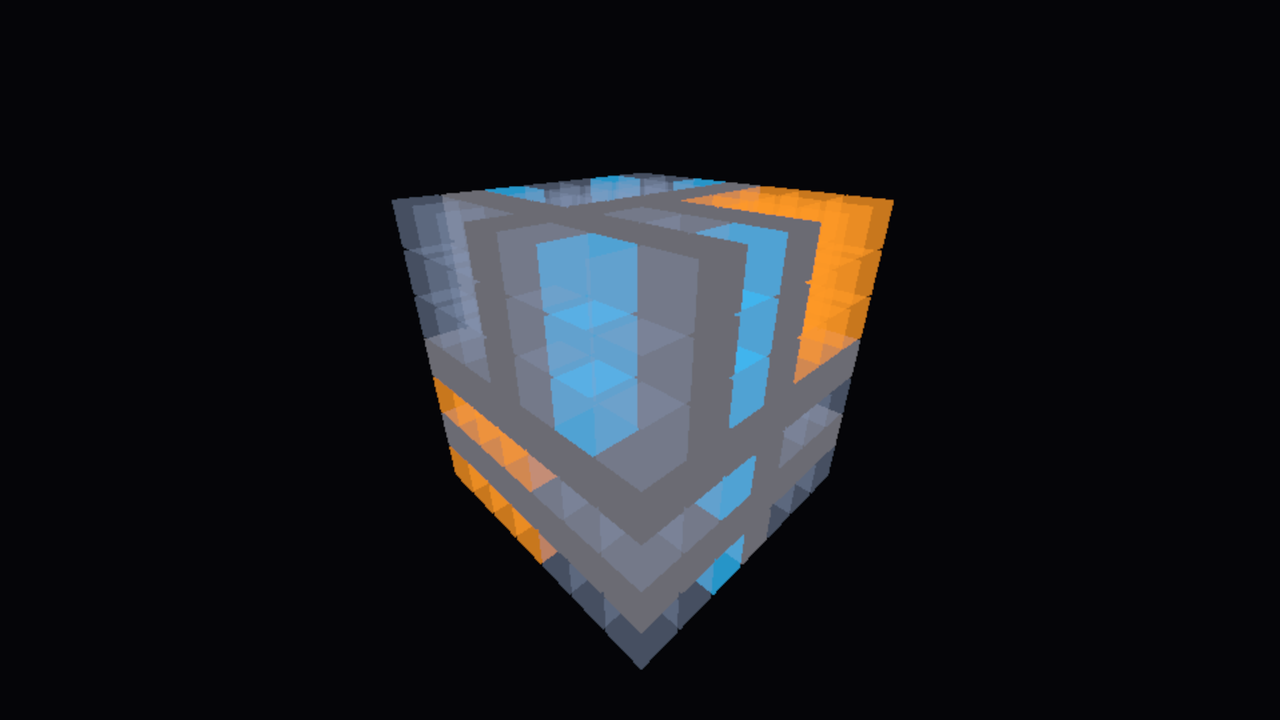
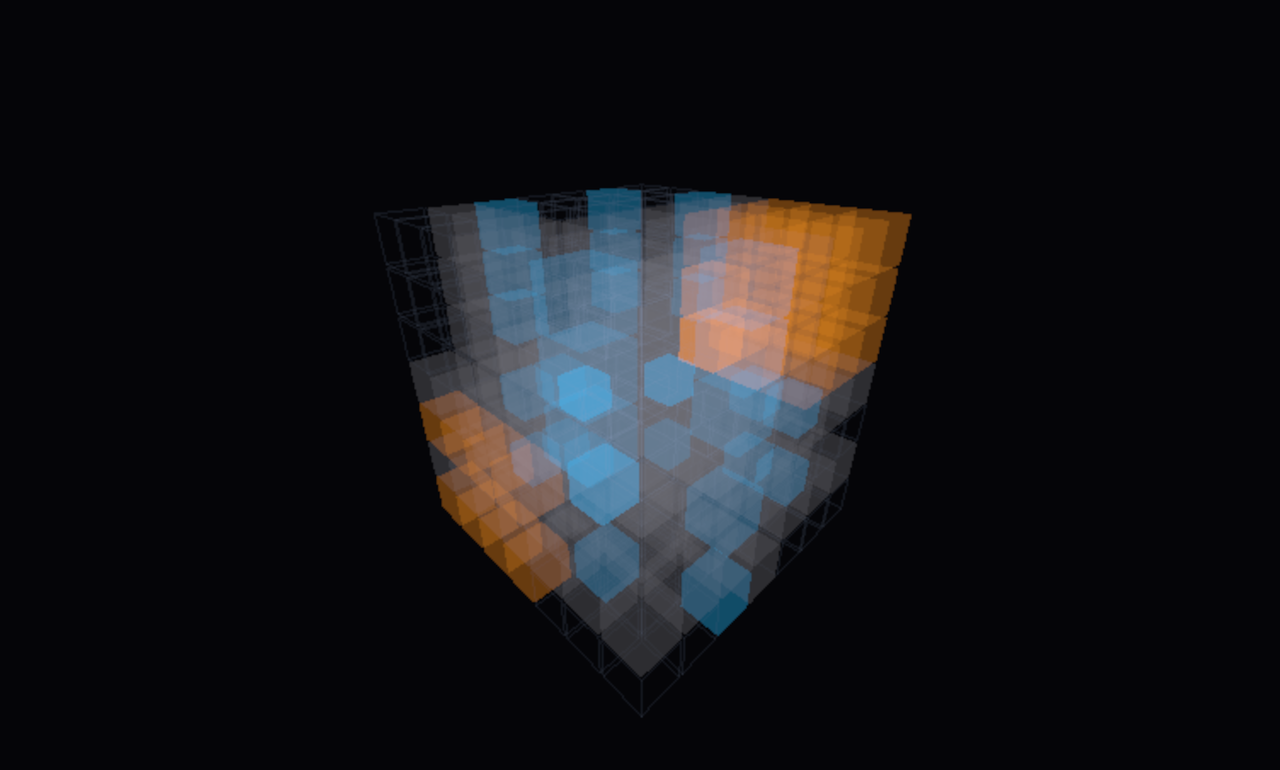
docs(skeleton): per-type viewer style and regenerated after images
The code map describes the fill and stratum_wireframe toggles, the render
priorities and the new default look; the skeleton-after images are
recaptured from the outside view preset with the default style.

Changed region(s): [[0.2812, 0.2444, 0.7188, 0.9167]]

diff --git a/docs/code/skeleton.md b/docs/code/skeleton.md
@@ -16,8 +16,8 @@ status: current
 > how many sectors of each type seed 0 produces and fails if that changes.
 > Another task measures how structured the result is and fails if shafts get
 > too short or solid stops splitting space into blocks. A separate viewer
-> scene draws the sectors around the camera as coloured wireframe cubes and
-> puts every grammar knob in the tweak panel, so the grammar can be judged by
+> scene draws the sectors around the camera as coloured see-through boxes,
+> with the common stratum as faint outlines, and puts every grammar knob in the tweak panel, so the grammar can be judged by
 > eye while flying through it.
 
 ## Files
@@ -77,7 +77,8 @@ The viewer is made for flying through the world, so its defaults are:
 | --- | --- | --- |
 | `follow_camera` | on | The region is centred on the camera's sector and moves with it. |
 | `radius` | 4 | Sectors drawn around the centre: 9³ = 729 (at most 6, 13³ = 2 197). |
-| `fill` | off | Wireframe cubes; on draws translucent filled boxes. |
+| `fill` | on | Shaft, cavity, solid and chasm as translucent filled boxes; off draws them as wireframe cubes. |
+| `stratum_wireframe` | on | Stratum as a faint wireframe cube; off draws it as a faint filled box. |
 | `show_stratum` | on | Stratum is drawn, much fainter than the other types. |
 
 Every sector of the region is drawn as a cube 44 m on a side centred in its
@@ -86,36 +87,42 @@ from inside a cube you would only see that one cube. Cubes up to half the
 radius from the centre are at full strength; beyond that they fade linearly
 to 20 % at the radius, so the near structure dominates.
 
-| Type | Wireframe edges | Filled box (`fill`) |
-| --- | --- | --- |
-| stratum | pale blue-grey, alpha 0.12 | pale blue-grey, alpha 0.12, drawn after the other types |
-| shaft | cyan, alpha 0.95 | cyan, alpha 0.35 |
-| cavity | orange, alpha 0.95 | orange, alpha 0.35 |
-| solid | grey, alpha 0.45 | grey, opaque |
-| chasm | red, alpha 0.95 | red, alpha 0.35 |
+The style is chosen per type: `fill` covers shaft, cavity, solid and chasm,
+`stratum_wireframe` covers stratum. Stratum is the majority, so as filled
+boxes it would hide everything else; as faint edges it only marks the grid.
 
-All materials are unshaded `StandardMaterial3D`s. Translucent ones do not
-write depth and draw both faces; wireframe cubes are all translucent, so the
-lattice reads through itself. Each type has one `MultiMesh` whose mesh is a
-12-edge `PRIMITIVE_LINES` cube or, with `fill`, a unit `BoxMesh`. A refresh
-writes all instances of a type as one `PackedFloat32Array` into
-`MultiMesh.buffer`, 16 floats per cube: a scaled basis, the centre and an
-instance colour. The instance colour fades alpha, or dims the colour of the
-opaque filled solid. Stratum's material has `render_priority` 1, so in fill
-mode it is blended over the voids and solid behind it instead of hiding them.
+| Type | Default style | Wireframe edges | Filled box | Render priority |
+| --- | --- | --- | --- | ---: |
+| stratum | wireframe | pale blue-grey, alpha 0.12 | pale blue-grey, alpha 0.12 | 2 |
+| shaft | filled | cyan, alpha 0.95 | cyan, alpha 0.35 | 1 |
+| cavity | filled | orange, alpha 0.95 | orange, alpha 0.35 | 1 |
+| solid | filled | grey, alpha 0.45 | grey, alpha 0.45 | 0 |
+| chasm | filled | red, alpha 0.95 | red, alpha 0.35 | 1 |
+
+All materials are unshaded, translucent `StandardMaterial3D`s that do not
+write depth and draw both faces, so the region reads through itself from
+inside and from outside. Without depth, the draw order decides how types
+blend: Godot draws translucent materials in ascending `render_priority`, so
+solid goes first, the voids are blended over it and keep their colour, and
+the stratum edges come last so they stay visible over the filled boxes.
+Within one type the order does not matter, because blending one colour over
+itself gives the same result in any order. Each type has one `MultiMesh`
+whose mesh is a 12-edge `PRIMITIVE_LINES` cube or a unit `BoxMesh`; switching
+a style only swaps mesh and material. A refresh writes all instances of a
+type as one `PackedFloat32Array` into `MultiMesh.buffer`, 16 floats per cube:
+a scaled basis, the centre and an instance colour whose alpha is the distance
+fade.
 
 **Outside view preset.** To judge the grammar as a whole, look at a fixed
 region from outside: turn `follow_camera` off (the region stays at `center`,
-default `(0, 0, 0)`), set `radius` 3 and `fill` on, and fly to position
+default `(0, 0, 0)`), set `radius` 3, and fly to position
 `(-300, 260, -300)`, yaw 0.79, pitch -0.48. That is the pose of the
 before/after screenshots in [[sector-skeleton-and-walkable-graph]]; with
 `show_stratum` off only the voids and solid remain.
 
-With `fill` on and stratum hidden, the view from inside often shows large
-black shapes framed by solid boxes. They are not faces rendered black: the
-line of sight passes through hidden stratum sectors out of the drawn region,
-so the background colour shows through. The wireframe default does not have
-this effect.
+From inside, the translucent solid boxes add up to a grey haze a few sectors
+deep, and where the line of sight leaves the drawn region the background
+shows through as black. Turning `fill` off gives the plain wireframe lattice.
 
 A refresh runs only when the camera enters another sector or the radius, a
 toggle, the seed or a grammar parameter changes. Sector types of the drawn
@@ -134,8 +141,8 @@ Almost all of the cold time is `sector_type` in GDScript. With
 `follow_camera` off the region stays where it is, so the camera can fly out
 and look at it from outside.
 
-The panel's `viewer` section holds `radius`, `show_stratum`, `fill` and
-`follow_camera`; below it one `grammar …` section per `@export_group` of
+The panel's `viewer` section holds `radius`, `show_stratum`, `fill`,
+`stratum_wireframe` and `follow_camera`; below it one `grammar …` section per `@export_group` of
 `SectorGrammar`, generated by `ParamRegistry.add_object_exports` ([[tweak-ui]]),
 so a new grammar export shows up without touching the panel. The seed comes
 from `WorldState` and the seed row (R picks a random one). The legend below

diff --git a/docs/algorithms/sector-skeleton-and-walkable-graph.md b/docs/algorithms/sector-skeleton-and-walkable-graph.md
@@ -206,10 +206,12 @@ What the numbers showed along the way:
   also passed but left strata taller than wide or needed walls closed
   everywhere, which reads as a regular lattice.
 
-Before and after, seed 0, the 7³ sectors around the origin (`radius` 3,
-`fill` on) from the outside view preset in [[skeleton]] (position
-`(-300, 260, -300)`, yaw 0.79, pitch -0.48); first with stratum hidden, then
-shown:
+Before and after, seed 0, the 7³ sectors around the origin (`radius` 3)
+from the outside view preset in [[skeleton]] (position `(-300, 260, -300)`,
+yaw 0.79, pitch -0.48); first with stratum hidden, then shown. The before
+images use the old fill mode (opaque solid, stratum as faint boxes); the
+after images use the viewer's default style (translucent boxes for solid and
+voids, stratum as faint wireframe cubes):
 
 ![Skeleton before tuning, stratum hidden](../images/skeleton-before.png)
 ![Skeleton after tuning, stratum hidden](../images/skeleton-after.png)
